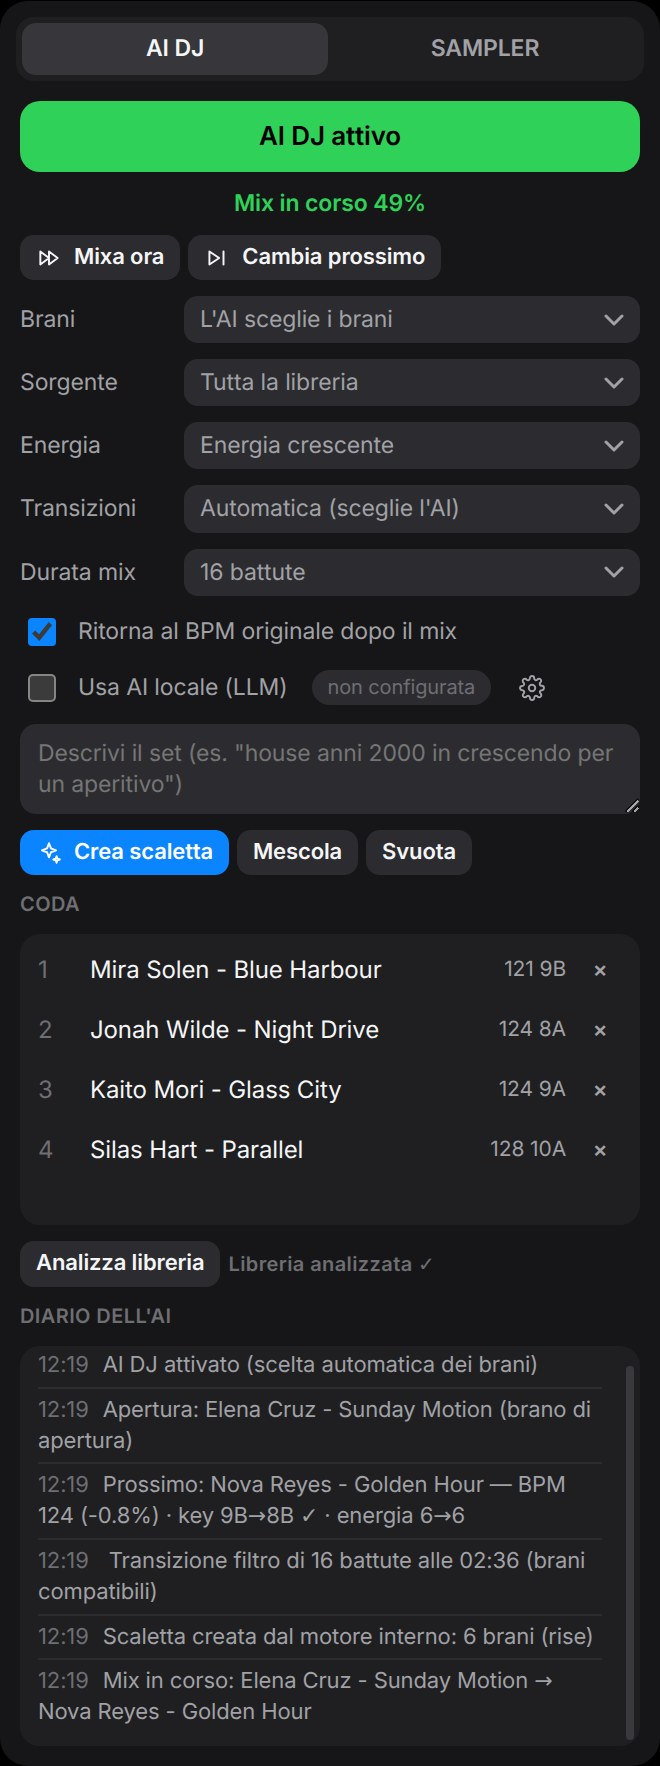
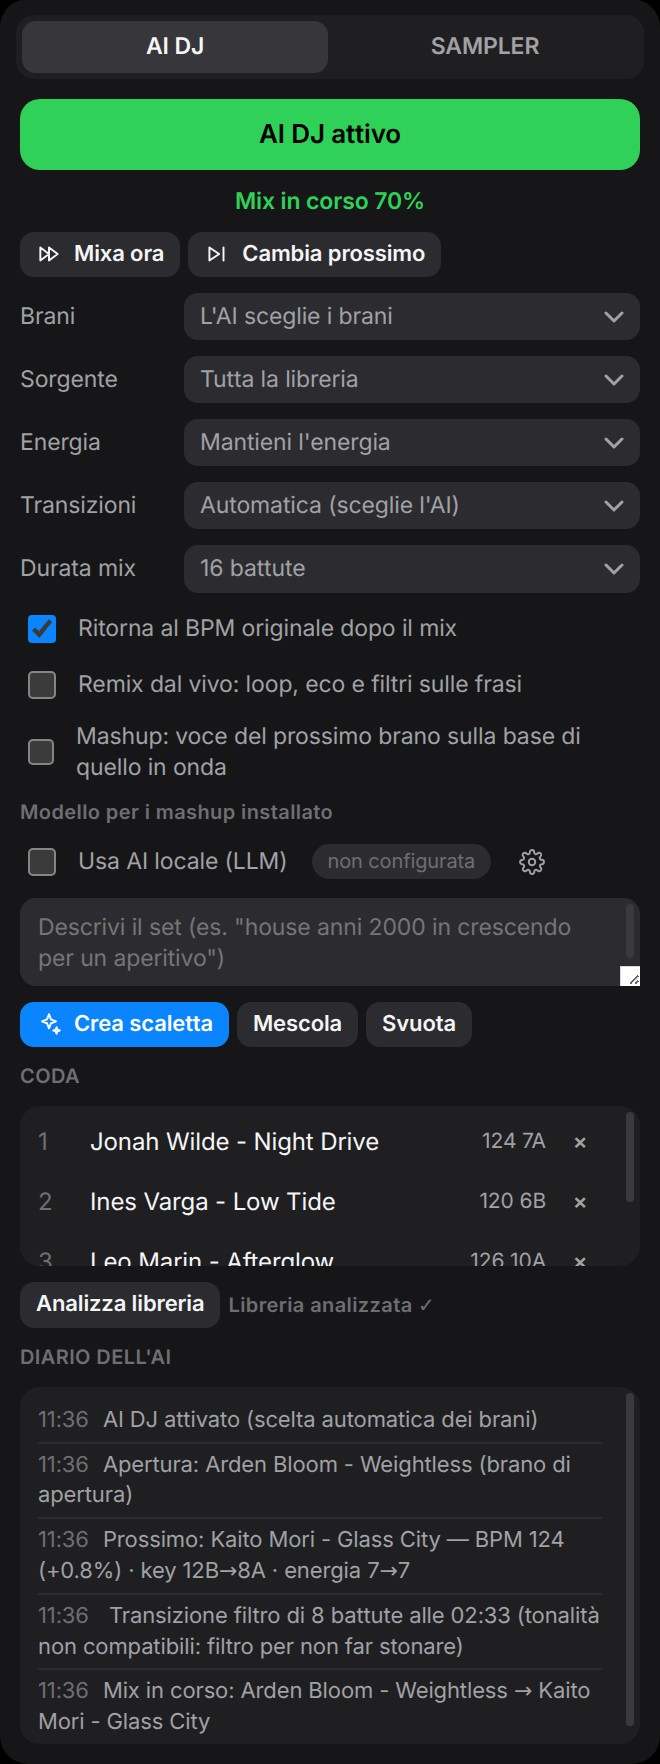
Sito: foto rifatte dall'app Segueo 1.6
Nuove foto dell'app vera con il nome Segueo e le funzioni della 1.6 (AI DJ a
metà mix, pannello con remix e mashup, motore di analisi Beat This!): app,
forme d'onda, deck, mixer, libreria, pannello AI DJ, impostazioni audio e AI.
Brani demo sintetici, come nelle foto precedenti. Testi alternativi aggiornati.

Claude-Session: https://claude.ai/code/session_01H9XLAipspB9mGv44kd1UWg

diff --git a/site/index.html b/site/index.html
@@ -42,7 +42,7 @@
       <a class="btn-link" href="#ai">Guarda come mixa l'AI <span aria-hidden="true">›</span></a>
     </div>
     <figure class="hero-shot reveal">
-      <img src="img/app-mix.jpg" alt="Interfaccia di Segueo: due deck in riproduzione, il mixer al centro e l'AI DJ che esegue un bass swap tra due brani" width="2960" height="1840">
+      <img src="img/app-mix.jpg" alt="Interfaccia di Segueo: due deck in riproduzione, il mixer al centro e l'AI DJ a metà di una transizione tra due brani" width="2360" height="1386">
       <figcaption>Interfaccia reale, catturata mentre l'AI DJ passa da un brano all'altro. Nel mixer, i bassi del deck B sono tagliati a −30 dB: è il bass swap in corso.</figcaption>
     </figure>
   </section>
@@ -90,7 +90,7 @@
 
     <div class="ai-showcase">
       <figure class="ai-panel reveal">
-        <img src="img/ai-panel.jpg" alt="Pannello AI DJ con modalità, energia, stile delle transizioni e diario delle decisioni" loading="lazy">
+        <img src="img/ai-panel.jpg" alt="Pannello AI DJ con modalità, energia, transizioni, remix, mashup, coda e diario delle decisioni" loading="lazy">
       </figure>
       <div class="ai-copy reveal">
         <h3>Ti dice sempre cosa sta facendo.</h3>
@@ -220,7 +220,7 @@
         <p class="lead">Analisi, scelte e mix avvengono in locale. Se colleghi un modello linguistico, anche quello gira sulla tua macchina: nessun brano, titolo o dato lascia il PC.</p>
       </div>
       <figure class="split-shot reveal">
-        <img src="img/settings-ai.jpg" alt="Impostazioni dell'AI locale con Ollama e selezione del modello" loading="lazy">
+        <img src="img/settings-ai.jpg" alt="Impostazioni dell'AI: motore di analisi Beat This! e modello linguistico locale facoltativo" loading="lazy">
       </figure>
     </div>
   </section>
